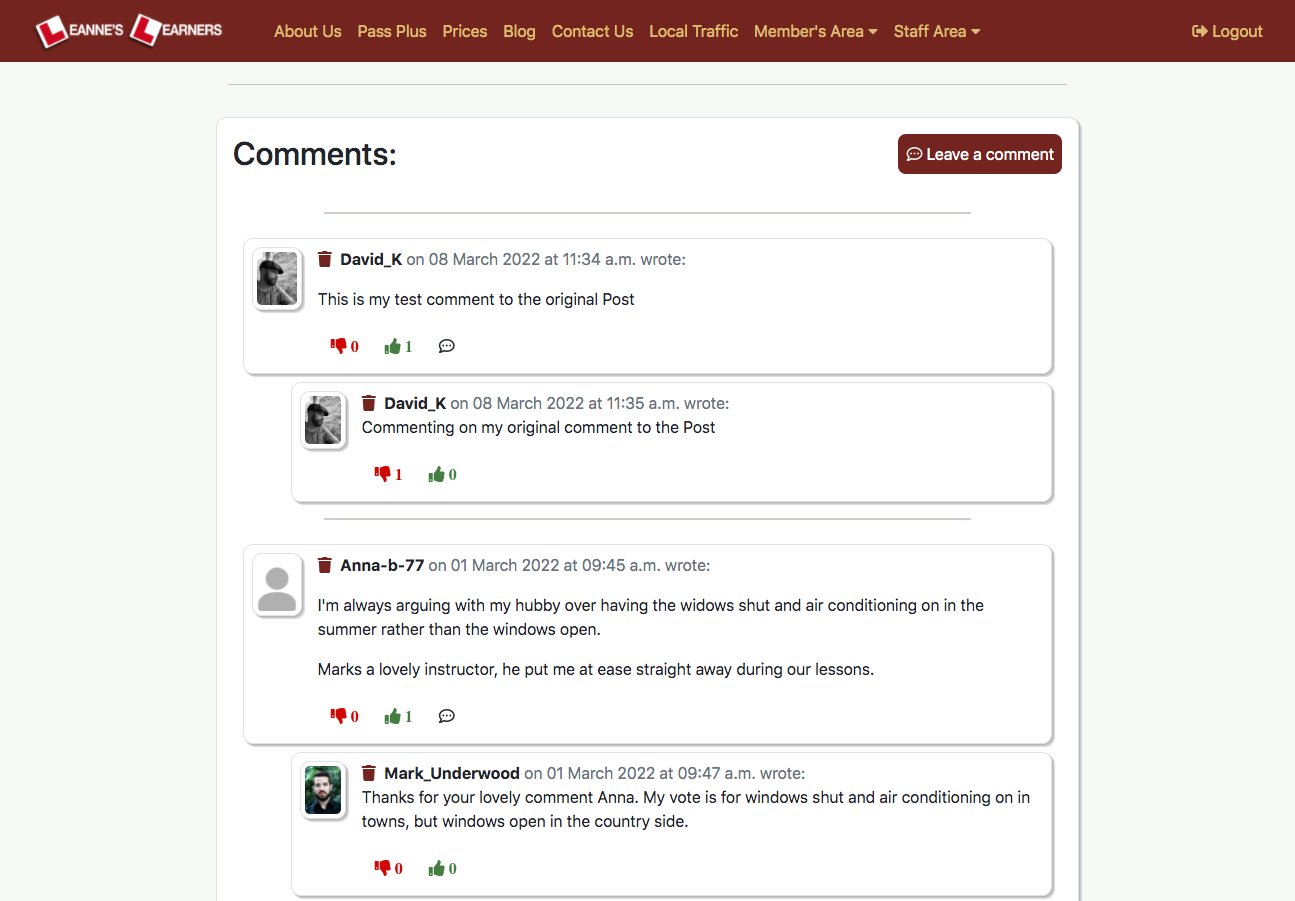
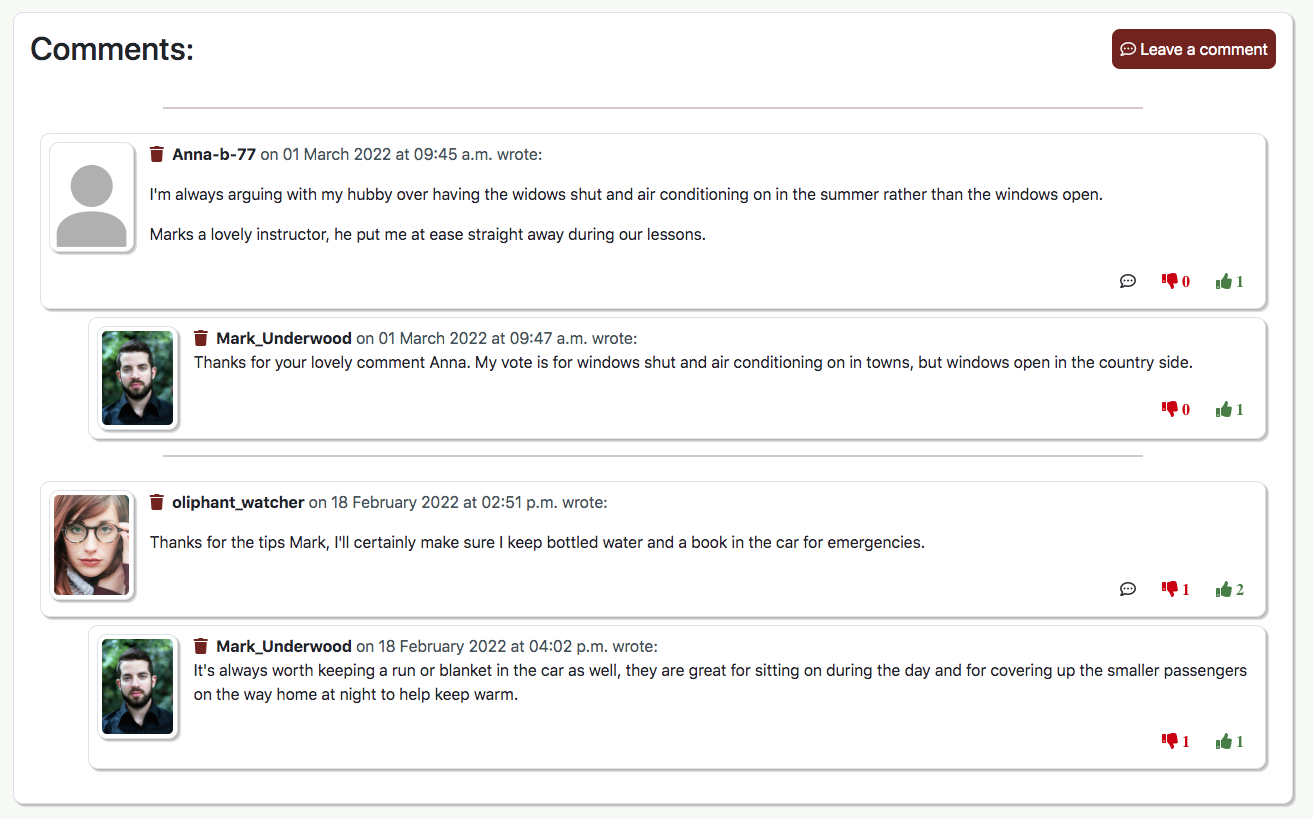
docs: updated the readme with revised images

Changed region(s): [[0.0309, 0.1221, 0.9884, 1.0], [0.0, 0.0, 1.0, 0.0916]]

diff --git a/README.md b/README.md
@@ -47,11 +47,17 @@ To build a Full-Stack site based on business logic used to control a centrally-o
         - [Post Edit](#post-edit)
       - [Commenting](#commenting)
     - [Admin](#admin)
+- [Error Pages](#error-pages)
+  - [Error 400](#error-400)
+  - [Error 403](#error-403)
+  - [Error 404](#error-404)
+  - [Error 500](#error-500)
 - [Deployment](#deployment)
 - [Cloning](#cloning)
 - [Credits](#credits)
 
 [Testing Documentation](/README_TESTING.md)
+
 ## UX (User Experience)
 
 ### User Stories
@@ -115,6 +121,8 @@ To build a Full-Stack site based on business logic used to control a centrally-o
 
 ## User Persona Summary ![User Persona Summary](/documents/assets/UserPersonaSummary.jpg)
 
+*The item's  left in this section of the document and marked as incomplete are left intentionally, as these are items discussed previously with the client. Although I could of removed these from the documentation and make it appear the site is completed, I believe it is important to leave these items showing as incomplete. Because the site isn't fully completed and is only through its first iteration, with plans for further development.*
+
 [Table of Contents](#table-of-contents)
   
 ***
@@ -147,6 +155,7 @@ I Used Github's Project board to plan the project and Github Issue's for User St
 # Design
 
 ## Database
+
 Image showing the database for Leanne's Learners - main site area
 ![Leannes Learners](/documents/assets/database/leannes_learners_data.png)
 
@@ -339,10 +348,10 @@ Delete a Blog Post shows a preview of the post that is about to be deleted and s
 
 Comment Modal
 ![image](/documents/assets/screenshots/main_pages/comment_to_the_post.png)
-Comment Modal for replying to a comment
+Comment Modal for replying to a comment - As indicated against oliphant_watcher's previous comment there is a delete icon to remove her comment. 
 ![image](/documents/assets/screenshots/main_pages/comment_to_the_comment.png)
 Showing the Comments, with likes and dislikes added.  
-This also shows a delete comment icon which only shows when the authenticated staff member.
+This also shows a delete comment icon which only shows when the user is the originator of the comment or if the user is a authenticated staff member.
 ![image](/documents/assets/screenshots/main_pages/comments.png)
 
 ### Admin
@@ -354,6 +363,29 @@ I have used brand colors for the Admin Section.
 
 [Table of Contents](#table-of-contents)
 ***
+
+# Error Pages
+
+I have created the following custom error pages for the site.
+
+## Error 400
+
+![image](/documents/assets/screenshots/error_pages/400_error.png)
+
+## Error 403
+
+![image](/documents/assets/screenshots/error_pages/403_error.png)
+
+## Error 404
+
+![image](/documents/assets/screenshots/error_pages/404_error.png)
+
+## Error 500
+
+![image](/documents/assets/screenshots/error_pages/500_error.png)
+
+  [Table of Contents](#table-of-contents)
+  ***
 
 # Deployment
 
